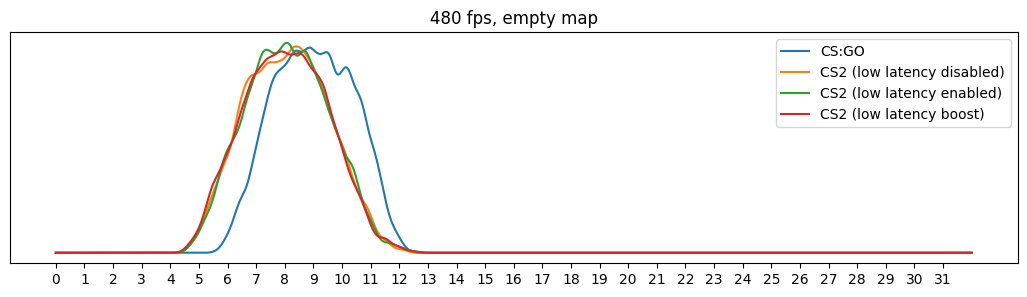
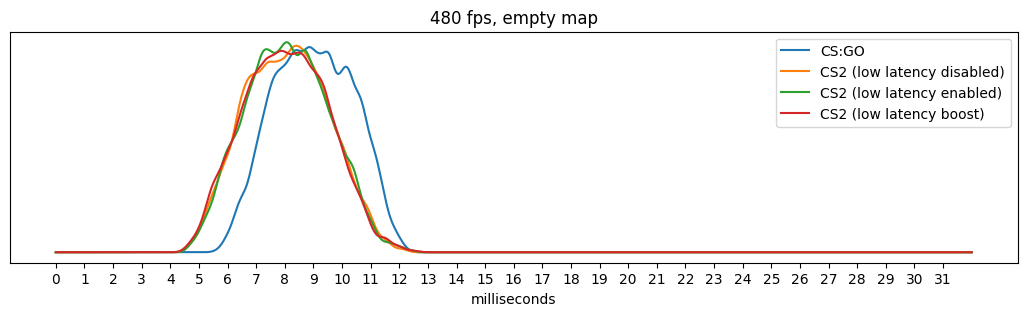
Label the X axis and fix bad variable name in gengraphs

Changed region(s): [[0.0, 0.0303, 0.9971, 0.9697]]

diff --git a/gengraphs.py b/gengraphs.py
@@ -17,29 +17,30 @@ def read_data(name):
         return [float(x) for x in split if x]
 
 class DataSource:
-    name: str
+    label: str
     filename: str
-def datasource(name, filename):
+def datasource(label, filename):
     ds = DataSource()
-    ds.name = name
+    ds.label = label
     ds.filename = filename
     return ds
 
-def gen_graph(output, name, datanames):
-    print('![' + name + '](graphs/' + output + '.png)')
+def gen_graph(filename, name, datasources):
+    print('![' + name + '](graphs/' + filename + '.png)')
     xs = numpy.linspace(0, 32, 2000)
     pyplot.figure(figsize = (width, height))
-    for it in datanames:
+    for it in datasources:
         data = read_data(it.filename)
         density = gaussian_kde(data)
         density.covariance_factor = lambda : 0.125
         density._compute_covariance()
-        pyplot.plot(xs, density(xs), label = it.name)
+        pyplot.plot(xs, density(xs), label = it.label)
     pyplot.legend()
     pyplot.title(name)
     pyplot.gca().axes.get_yaxis().set_visible(False)
     pyplot.xticks(numpy.arange(0, 32, 1.0))
-    pyplot.savefig(os.path.join('graphs', output + '.png'), bbox_inches = 'tight', pad_inches = 0.1)
+    pyplot.xlabel('milliseconds')
+    pyplot.savefig(os.path.join('graphs', filename + '.png'), bbox_inches = 'tight', pad_inches = 0.1)
     pyplot.close()
 
 gen_graph('emptymap_160fps', '160 fps, empty map', [
